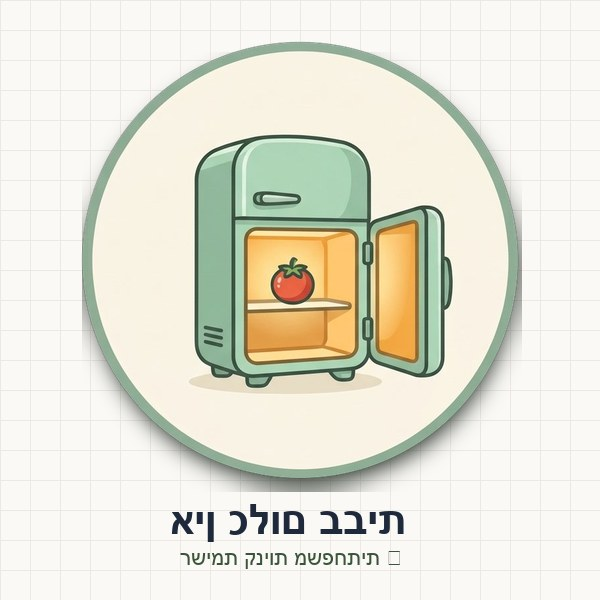
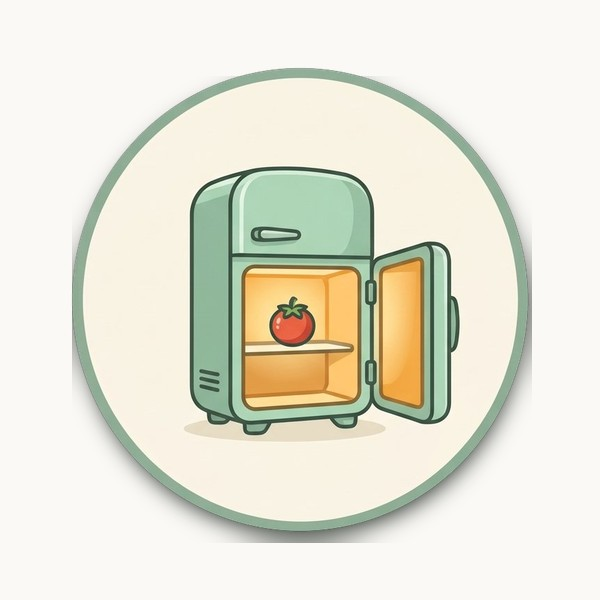
fix: use pure centered retro fridge badge without text for clean WhatsApp card crop

Changed region(s): [[0.12, 0.06, 0.9, 0.96]]

diff --git a/index.html b/index.html
@@ -7,22 +7,22 @@
 
     <!-- Open Graph / WhatsApp / Facebook Preview -->
     <meta property="og:site_name" content="אין כלום בבית" />
-    <meta property="og:title" content="אין כלום בבית – רשימת קניות משפחתית" />
-    <meta property="og:description" content="רשימת קניות חכמה ומסונכרנת בזמן אמת בין בני הזוג והמשפחה. קטלוג ישראלי מוכן מראש, סנכרון מיידי, חינם." />
+    <meta property="og:title" content="אין כלום בבית" />
+    <meta property="og:description" content="רשימת קניות משפחתית חכמה ומסונכרנת בזמן אמת 🛒" />
     <meta property="og:type" content="website" />
     <meta property="og:url" content="https://yonimeir.github.io/family-shopping/" />
-    <meta property="og:image" content="https://yonimeir.github.io/family-shopping/og-image.jpg" />
-    <meta property="og:image:secure_url" content="https://yonimeir.github.io/family-shopping/og-image.jpg" />
+    <meta property="og:image" content="https://yonimeir.github.io/family-shopping/og-image.jpg?v=2" />
+    <meta property="og:image:secure_url" content="https://yonimeir.github.io/family-shopping/og-image.jpg?v=2" />
     <meta property="og:image:type" content="image/jpeg" />
     <meta property="og:image:width" content="1200" />
     <meta property="og:image:height" content="630" />
     <meta property="og:locale" content="he_IL" />
 
     <!-- Twitter Card Preview -->
-    <meta name="twitter:card" content="summary_large_image" />
-    <meta name="twitter:title" content="אין כלום בבית – רשימת קניות משפחתית" />
-    <meta name="twitter:description" content="רשימת קניות חכמה ומסונכרנת בזמן אמת בין בני הזוג והמשפחה" />
-    <meta name="twitter:image" content="https://yonimeir.github.io/family-shopping/og-image.jpg" />
+    <meta name="twitter:card" content="summary" />
+    <meta name="twitter:title" content="אין כלום בבית" />
+    <meta name="twitter:description" content="רשימת קניות משפחתית חכמה ומסונכרנת בזמן אמת 🛒" />
+    <meta name="twitter:image" content="https://yonimeir.github.io/family-shopping/og-image.jpg?v=2" />
 
     <meta name="viewport" content="width=device-width, initial-scale=1.0, viewport-fit=cover" />
     <meta name="theme-color" content="#faf9f6" />
